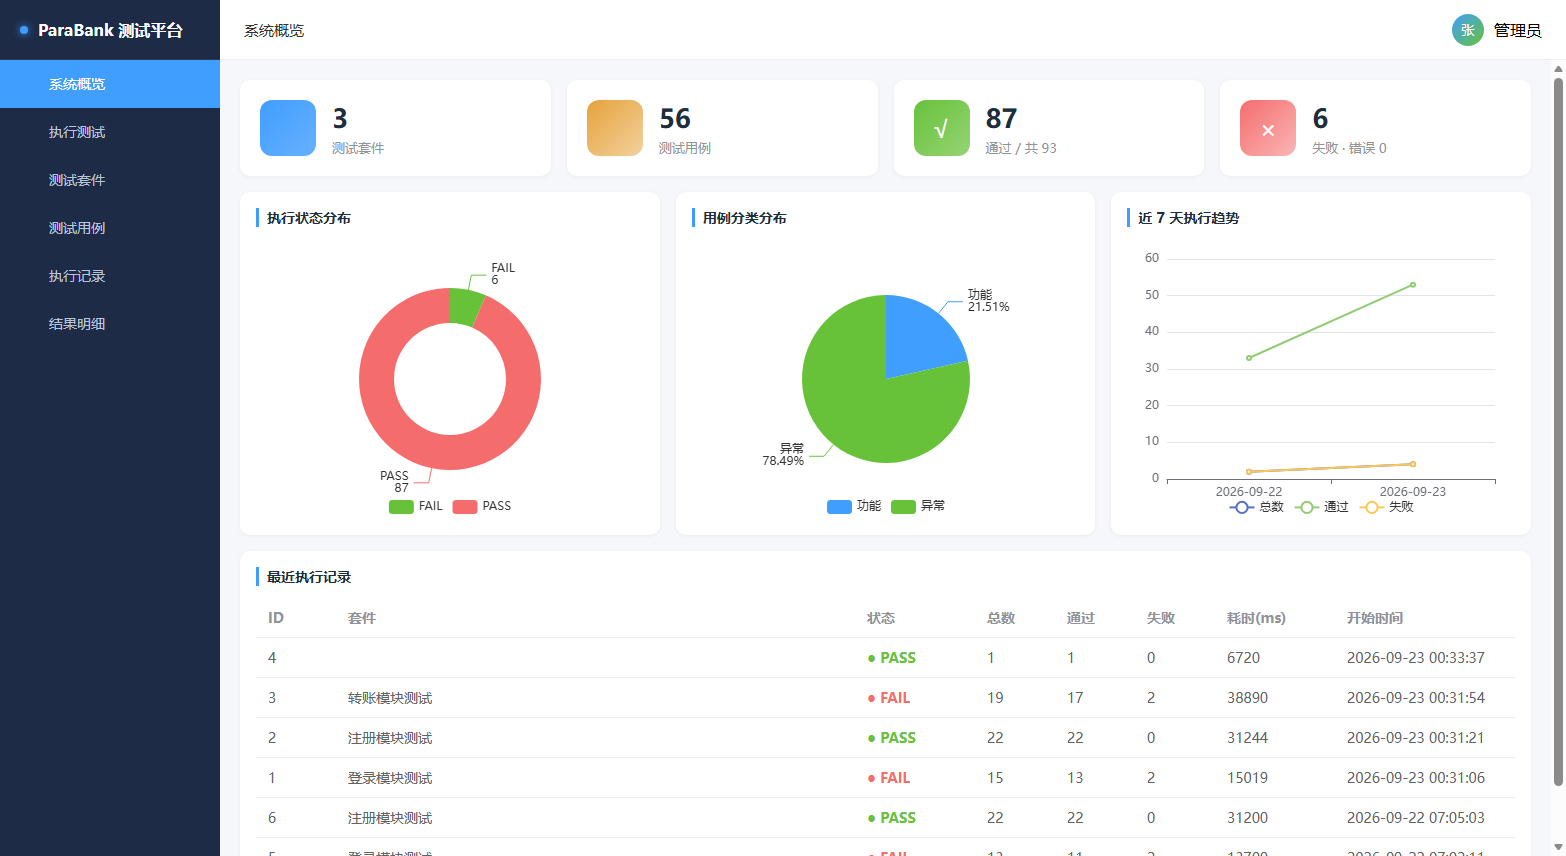
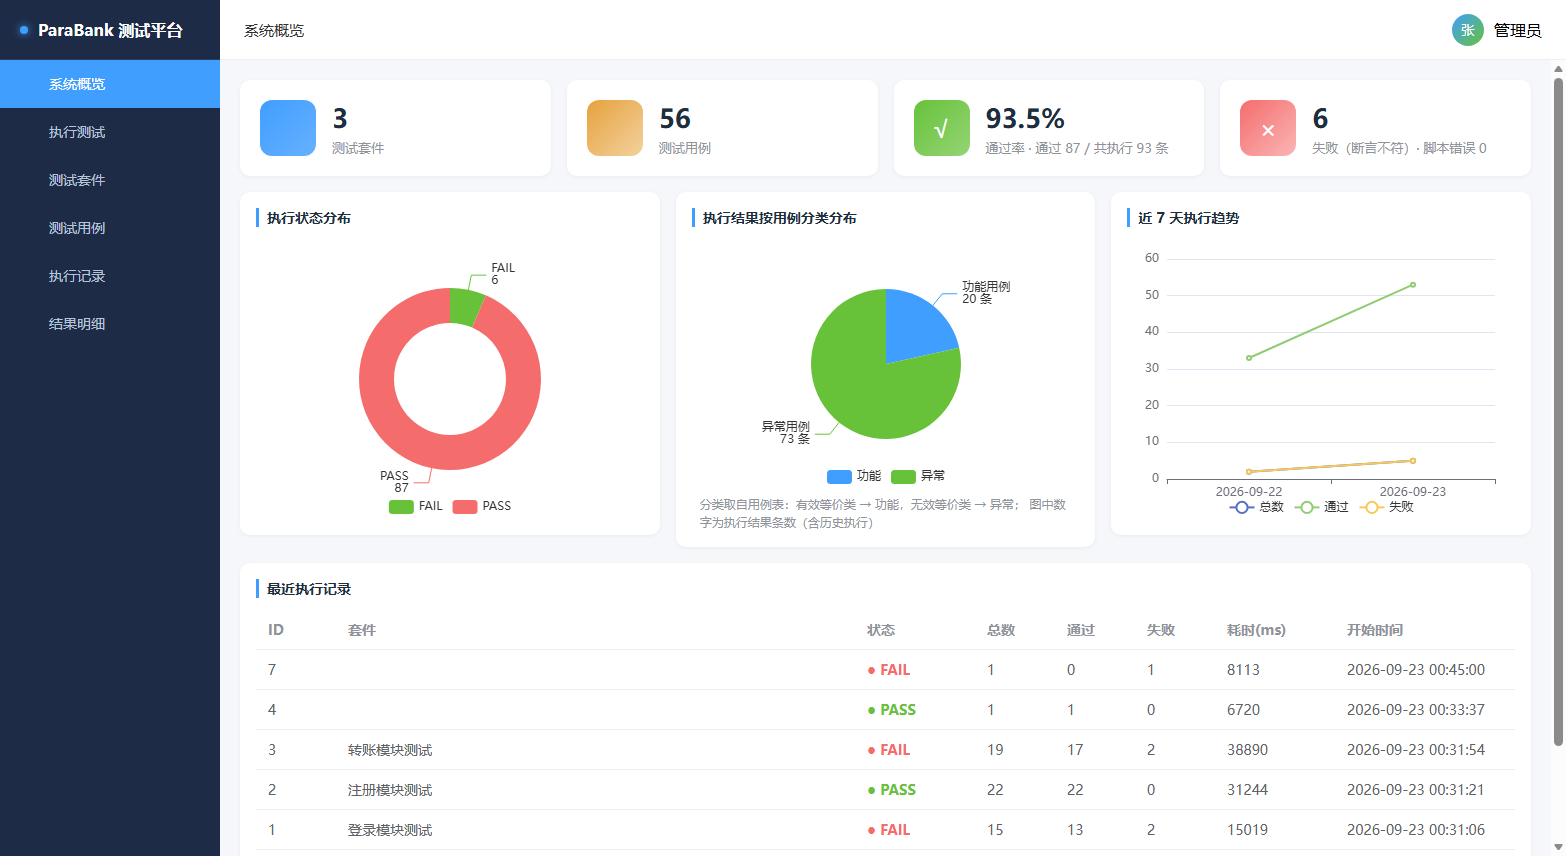
fix(ui): 概览卡片文案消歧（通过率/失败-脚本错误），分类饼图补标题与说明

diff --git a/static/index.html b/static/index.html
@@ -54,6 +54,7 @@ body { font-family:-apple-system,'PingFang SC','Microsoft YaHei',sans-serif; }
     max-height:400px; overflow:auto; white-space:pre-wrap; word-break:break-all; }
 .chart-empty { text-align:center; color:#c0c4cc; font-size:13px;
     padding-top:100px; }
+.chart-note { font-size:12px; color:#909399; line-height:1.5; padding:6px 8px 0; }
 </style>
 </head>
 <body>
@@ -119,8 +120,10 @@ body { font-family:-apple-system,'PingFang SC','Microsoft YaHei',sans-serif; }
                             <div class="stat-card">
                                 <div class="stat-icon green">√</div>
                                 <div>
-                                    <div class="stat-num">{{ stats.passed }}</div>
-                                    <div class="stat-label">通过 / 共 {{ stats.total_results }}</div>
+                                    <div class="stat-num">{{ stats.pass_rate }}%</div>
+                                    <div class="stat-label">
+                                        通过率 · 通过 {{ stats.passed }} / 共执行 {{ stats.total_results }} 条
+                                    </div>
                                 </div>
                             </div>
                         </el-col>
@@ -129,7 +132,9 @@ body { font-family:-apple-system,'PingFang SC','Microsoft YaHei',sans-serif; }
                                 <div class="stat-icon red">×</div>
                                 <div>
                                     <div class="stat-num">{{ stats.failed }}</div>
-                                    <div class="stat-label">失败 · 错误 {{ stats.error }}</div>
+                                    <div class="stat-label">
+                                        失败（断言不符）· 脚本错误 {{ stats.error }}
+                                    </div>
                                 </div>
                             </div>
                         </el-col>
@@ -144,8 +149,12 @@ body { font-family:-apple-system,'PingFang SC','Microsoft YaHei',sans-serif; }
                         </el-col>
                         <el-col :span="8">
                             <div class="chart-box">
-                                <div class="chart-title">用例分类分布</div>
-                                <div id="pieCatChart" style="height:280px;"></div>
+                                <div class="chart-title">执行结果按用例分类分布</div>
+                                <div id="pieCatChart" style="height:250px;"></div>
+                                <div class="chart-note">
+                                    分类取自用例表：有效等价类 → 功能，无效等价类 → 异常；
+                                    图中数字为执行结果条数（含历史执行）
+                                </div>
                             </div>
                         </el-col>
                         <el-col :span="8">
@@ -569,12 +578,12 @@ createApp({
 
                 pieCatInst = echarts.init(el2);
                 pieCatInst.setOption({
-                    tooltip: { trigger:'item' },
+                    tooltip: { trigger:'item', formatter:'{b}用例：{c} 条（{d}%）' },
                     legend: { bottom: 0 },
                     color: ['#409eff','#67c23a','#e6a23c','#f56c6c','#909399'],
                     series: [{
                         type:'pie', radius:'60%',
-                        label: { formatter:'{b}\n{d}%' },
+                        label: { formatter:'{b}用例\n{c} 条' },
                         data: data.pie_cat.length ? data.pie_cat : [{name:'暂无数据',value:0}]
                     }]
                 });
